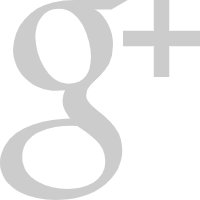
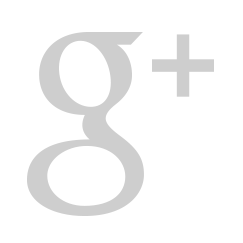
333

Changed region(s): [[0.0, 0.33, 0.63, 1.0], [0.06, 0.0, 0.63, 0.45], [0.6, 0.0, 1.0, 0.42]]

diff --git a/style.css b/style.css
@@ -288,10 +288,10 @@ body,html{
 
 .icon{
     position: absolute;
-    padding-top: 170px;
+    padding-top: 150px;
     padding-left: 0px;
     left: 50%;
-    transform: translateX(-50%);
+    transform: translateX(-55%);
 } 
 .icon ul{
 	display: flex;
@@ -302,7 +302,7 @@ body,html{
 	list-style-type: none;
 }
 .icon ul li a img{
-	width: 27px;
+	width: 33px;
 }   
 .text6 { 
     height: 535px; 
